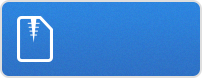
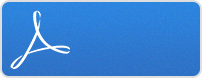
Modified the default theme
* Changed the red stuff to blue in the print stylesheet
* Changed the zip download button to PDF
* Started working on the markup on index.html

Changed region(s): [[0.0297, 0.1282, 0.3564, 0.8974]]

diff --git a/stylesheets/stylesheet.css b/stylesheets/stylesheet.css
@@ -231,13 +231,6 @@ form {
   color: #474747;
 } 
 
-#main-content h1:before {
-  content: "/";
-  color: #9ddcff;
-  padding-right: 0.3em;
-  margin-left: -0.9em;
-}
-
 #main-content h2 {
   font-family: 'Architects Daughter', 'Helvetica Neue', Helvetica, Arial, serif; 
   font-size: 22px;
@@ -245,12 +238,6 @@ form {
   margin-bottom: 8px;
   color: #474747;
 } 
-#main-content h2:before {
-  content: "//";
-  color: #9ddcff;
-  padding-right: 0.3em;
-  margin-left: -1.5em;
-}
 
 #main-content h3 {
   font-family: 'Architects Daughter', 'Helvetica Neue', Helvetica, Arial, serif; 
@@ -261,13 +248,6 @@ form {
   color: #474747;
 } 
  
-#main-content h3:before {
-  content: "///";
-  color: #9ddcff;
-  padding-right: 0.3em;
-  margin-left: -2em;
-}
-
 #main-content h4 {
   font-family: 'Architects Daughter', 'Helvetica Neue', Helvetica, Arial, serif; 
   font-size: 15px;
@@ -275,36 +255,17 @@ form {
   color: #474747;
 } 
 
-h4:before {
-  content: "////";
-  color: #9ddcff;
-  padding-right: 0.3em;
-  margin-left: -2.8em;
-}
-
 #main-content h5 {
   font-family: 'Architects Daughter', 'Helvetica Neue', Helvetica, Arial, serif; 
   font-size: 14px;
   color: #474747;
 } 
-h5:before {
-  content: "/////";
-  color: #9ddcff;
-  padding-right: 0.3em;
-  margin-left: -3.2em;
-}
 
 #main-content h6 {
   font-family: 'Architects Daughter', 'Helvetica Neue', Helvetica, Arial, serif; 
   font-size: .8em;
   color: #474747;
 } 
-h6:before {
-  content: "//////";
-  color: #9ddcff;
-  padding-right: 0.3em;
-  margin-left: -3.7em;
-}
 
 p {
   margin-bottom: 20px;

diff --git a/index.html b/index.html
@@ -13,14 +13,14 @@
     <script src="//html5shiv.googlecode.com/svn/trunk/html5.js"></script>
     <![endif]-->
 
-    <title>CV by wmadden</title>
+    <title>William Madden - Curriculum Vitae</title>
   </head>
 
   <body>
     <header>
       <div class="inner">
-        <h1>CV</h1>
-        <h2></h2>
+        <h1>William Madden</h1>
+        <h2>Curriculum Vitae</h2>
         <a href="https://github.com/wmadden/cv" class="button"><small>View project on</small>GitHub</a>
       </div>
     </header>
@@ -28,9 +28,6 @@
     <div id="content-wrapper">
       <div class="inner clearfix">
         <section id="main-content">
-          <h1>
-<a name="william-madden" class="anchor" href="#william-madden"><span class="octicon octicon-link"></span></a>William Madden</h1>
-
 <p>Curriculum Vitae</p>
 
 <h2>
@@ -153,7 +150,6 @@
 
           <p class="repo-owner"><a href="https://github.com/wmadden/cv"></a> is maintained by <a href="https://github.com/wmadden">wmadden</a>.</p>
 
-          <p>This page was generated by <a href="https://pages.github.com">GitHub Pages</a> using the Architect theme by <a href="https://twitter.com/jasonlong">Jason Long</a>.</p>
         </aside>
       </div>
     </div>

diff --git a/stylesheets/print.css b/stylesheets/print.css
@@ -49,7 +49,8 @@ body {
 }
 
 a {
-  color: #d5000d;
+  color: #2a57d5;
+  text-decoration: underline;
   font-weight: bold;
 }
 
@@ -138,12 +139,12 @@ h1 {
 h2 {
   font-size: 22px;
   font-weight: bold;
-  color: #303030;
+  color: #1274f0;
   margin-bottom: 8px;
 } 
 
 h3 {
-  color: #d5000d;
+  color: #303030;
   font-size: 18px;
   font-weight: bold;
   margin-bottom: 8px;
